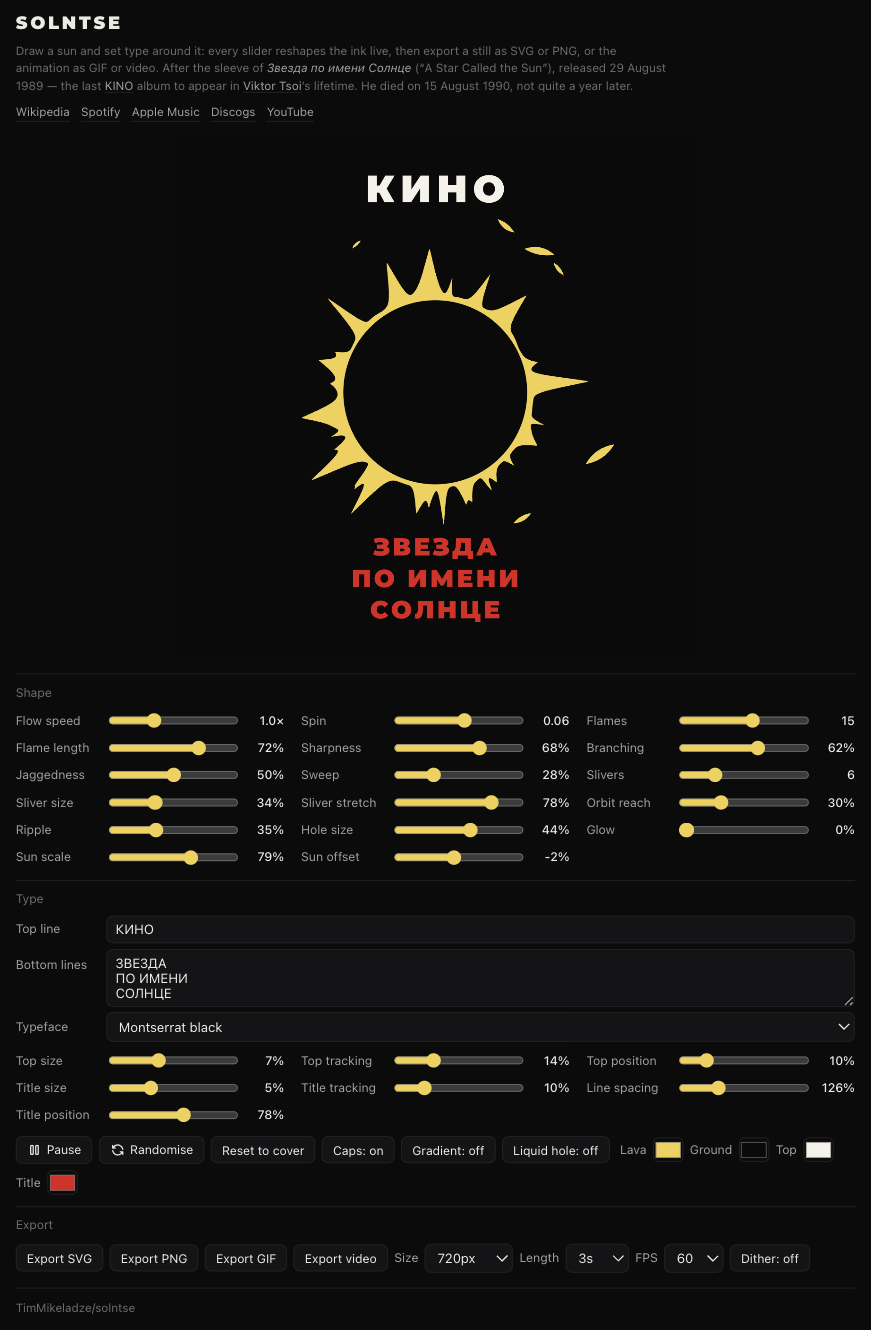
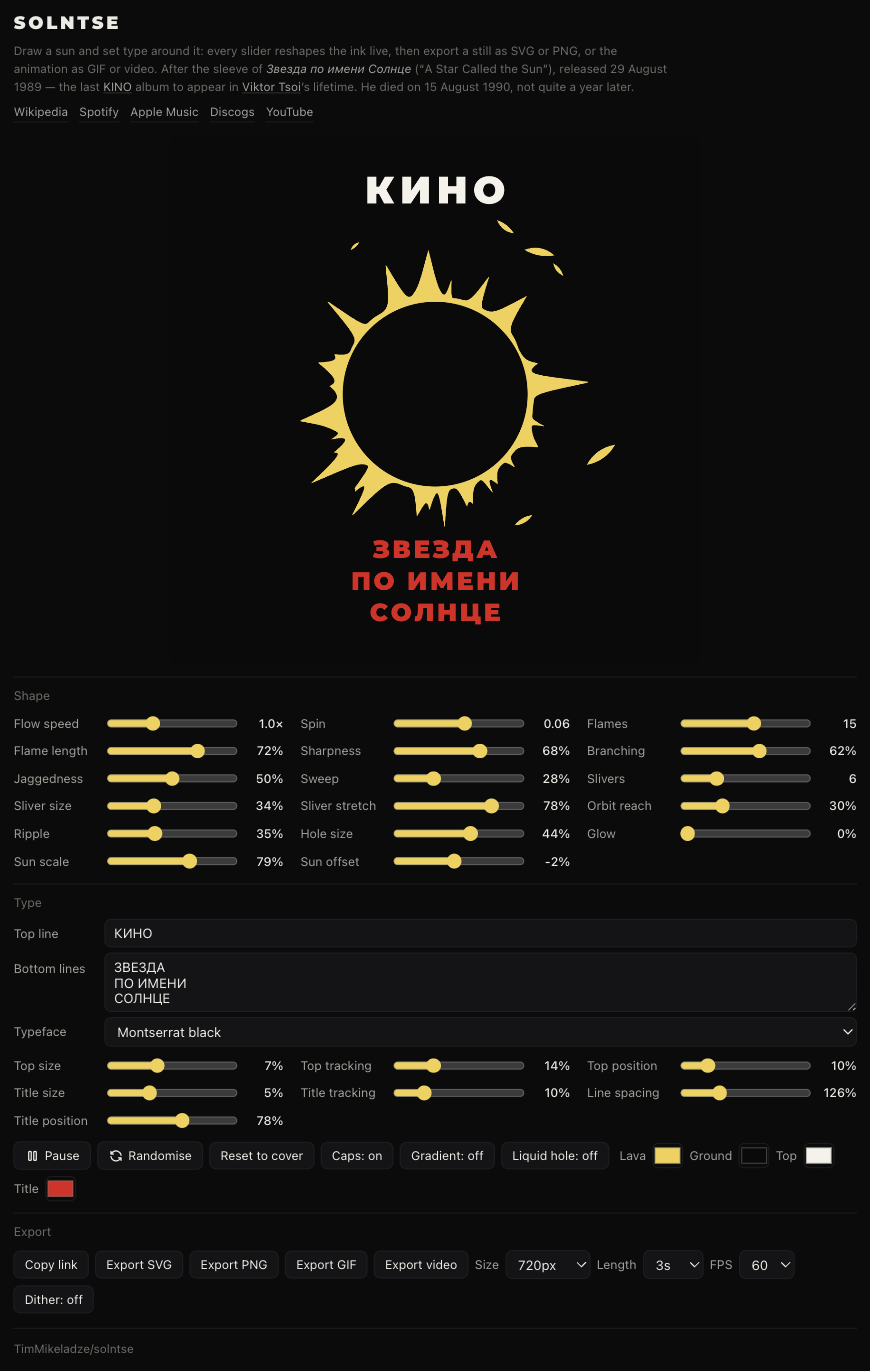
feat: put the whole artwork in the URL and add Copy link
Every slider, both text fields, the typeface, all four colours, the toggles and
the geometry seed serialise into the URL hash, so any state is a link. The
address bar rewrites itself as you work via a debounced replaceState, opening a
link rebuilds that exact sun, and a malformed or truncated hash clamps what it
can and falls back to a random sun rather than throwing.

Also stop randomising the liquid-hole toggle: it now always starts off.

Claude-Session: https://claude.ai/code/session_01HTHv2x9yjxjd3c1YEbDP2R

diff --git a/index.html b/index.html
@@ -144,6 +144,7 @@ input[type=range]{height:20px}
   </div>
   <div class="lsh">Export</div>
   <div class="lsb">
+    <button id="bshare" type="button">Copy link</button>
     <button id="bsvg" type="button">Export SVG</button>
     <button id="bpng" type="button">Export PNG</button>
     <button id="bgif" type="button">Export GIF</button>
@@ -167,11 +168,11 @@ var capturing=false,dith=false;
 var keys=['speed','spin','flames','length','sharp','branch','jag','sweep','drops','dsize','sliver','orbit','ripple','hole','glow','scale','offy','tsize','ttrack','ty','bsize','btrack','lead','by'];
 var DEF={speed:1,spin:0.06,flames:15,length:0.72,sharp:0.68,branch:0.62,jag:0.5,sweep:0.28,drops:6,dsize:0.34,sliver:0.78,orbit:0.3,ripple:0.35,hole:0.44,glow:0,scale:0.79,offy:-0.02,tsize:0.072,ttrack:0.14,ty:0.095,bsize:0.046,btrack:0.1,lead:1.26,by:0.775},P={};
 function fmt(k,v){if(k==='flames'||k==='drops')return String(Math.round(v));if(k==='speed')return v.toFixed(1)+'\u00d7';if(k==='spin')return v.toFixed(2);return Math.round(v*100)+'%';}
-function sync(){for(var i=0;i<keys.length;i++){var k=keys[i];P[k]=parseFloat(document.getElementById(k).value);document.getElementById(k+'o').textContent=fmt(k,P[k]);}}
+function sync(){for(var i=0;i<keys.length;i++){var k=keys[i];P[k]=parseFloat(document.getElementById(k).value);document.getElementById(k+'o').textContent=fmt(k,P[k]);}pushURL();}
 for(var z=0;z<keys.length;z++)document.getElementById(keys[z]).addEventListener('input',sync);
 function seed(a){return function(){a|=0;a=a+0x6D2B79F5|0;var t=Math.imul(a^a>>>15,1|a);t=t+Math.imul(t^t>>>7,61|t)^t;return((t^t>>>14)>>>0)/4294967296;};}
-var SL=[],DR=[],JG=[];
-function build(sd){var r=seed(sd),i,k;SL=[];DR=[];JG=[];
+var SL=[],DR=[],JG=[],SEED=514422;
+function build(sd){var r=seed(sd),i,k;SEED=sd;SL=[];DR=[];JG=[];
  for(i=0;i<24;i++){var kids=[],nk=Math.floor(r()*3.2);
   for(k=0;k<nk;k++)kids.push({off:(r()<0.5?-1:1)*(0.2+r()*0.5),amp:0.18+r()*0.5,w:0.26+r()*0.4,pul:0.2+r()*0.6,po:r()*TAU});
   SL.push({j:(r()-0.5)*0.75,rj:r(),m:{off:0,amp:0.3+r()*0.7,w:0.5+r()*0.8,pul:0.14+r()*0.5,po:r()*TAU},k:kids});}
@@ -191,10 +192,57 @@ function shuffle(){
   if(k==='spin'&&Math.random()<0.5)v=-v;
   document.getElementById(k).value=v;}
  document.getElementById('glow').value=Math.random()<0.55?0:rnd(0.12,0.42);
- grad=Math.random()<0.3;wob=Math.random()<0.35;
+ grad=Math.random()<0.3;wob=false;
  document.getElementById('bgrad').textContent='Gradient: '+(grad?'on':'off');
  document.getElementById('bwob').textContent='Liquid hole: '+(wob?'on':'off');
  build(Math.floor(Math.random()*1e6));sync();}
+
+/* --- the whole artwork lives in the URL hash, so any state is a link --- */
+function stateStr(){
+ var p=[],i;
+ for(i=0;i<keys.length;i++)p.push(+parseFloat(document.getElementById(keys[i]).value).toFixed(3));
+ return 's='+p.join(',')
+  +'&c='+['c1','c2','c3','c4'].map(function(id){return val(id).replace('#','');}).join(',')
+  +'&d='+SEED
+  +'&t='+encodeURIComponent(val('tfont'))
+  +'&f='+(caps?'c':'')+(grad?'g':'')+(wob?'w':'')
+  +'&a='+encodeURIComponent(val('ttop'))
+  +'&b='+encodeURIComponent(val('tbot'));}
+function shareURL(){return location.origin+location.pathname+'#'+stateStr();}
+var urlTimer=null;
+function pushURL(){
+ if(urlTimer)clearTimeout(urlTimer);
+ /* Debounced: a slider drag would otherwise trip Safari's replaceState limit. */
+ urlTimer=setTimeout(function(){try{history.replaceState(null,'','#'+stateStr());}catch(e){}},400);}
+function applyState(h){
+ try{
+  if(!h)return false;
+  var q={},parts=h.replace(/^#/,'').split('&'),i;
+  for(i=0;i<parts.length;i++){var e=parts[i].indexOf('=');if(e>0)q[parts[i].slice(0,e)]=parts[i].slice(e+1);}
+  if(!q.s)return false;
+  var nums=q.s.split(','),ok=false;
+  for(i=0;i<keys.length&&i<nums.length;i++){
+   var el=document.getElementById(keys[i]),v=parseFloat(nums[i]);
+   if(!isFinite(v))continue;
+   el.value=Math.min(parseFloat(el.max),Math.max(parseFloat(el.min),v));ok=true;}
+  if(!ok)return false;
+  if(q.c){var cs=q.c.split(',');
+   ['c1','c2','c3','c4'].forEach(function(id,j){
+    if(cs[j]&&/^[0-9a-fA-F]{6}$/.test(cs[j]))document.getElementById(id).value='#'+cs[j].toLowerCase();});}
+  var f=q.f||'';
+  caps=f.indexOf('c')>=0;grad=f.indexOf('g')>=0;wob=f.indexOf('w')>=0;
+  document.getElementById('bcaps').textContent='Caps: '+(caps?'on':'off');
+  document.getElementById('bgrad').textContent='Gradient: '+(grad?'on':'off');
+  document.getElementById('bwob').textContent='Liquid hole: '+(wob?'on':'off');
+  if(q.t){var fv=decodeURIComponent(q.t),sel=document.getElementById('tfont');
+   for(i=0;i<sel.options.length;i++)if(sel.options[i].value===fv)sel.value=fv;}
+  if(q.a!==undefined)document.getElementById('ttop').value=decodeURIComponent(q.a);
+  if(q.b!==undefined)document.getElementById('tbot').value=decodeURIComponent(q.b);
+  var sd=parseInt(q.d,10);
+  build(isFinite(sd)?sd:514422);
+  sync();
+  return true;
+ }catch(e){return false;}}
 function hx(h){h=h.replace('#','');return[parseInt(h.substr(0,2),16),parseInt(h.substr(2,2),16),parseInt(h.substr(4,2),16)];}
 function mx(c,w,a){return'rgb('+Math.round(c[0]+(w[0]-c[0])*a)+','+Math.round(c[1]+(w[1]-c[1])*a)+','+Math.round(c[2]+(w[2]-c[2])*a)+')';}
 function val(id){return document.getElementById(id).value;}
@@ -554,15 +602,27 @@ document.getElementById('bdith').addEventListener('click',function(){
 
 document.getElementById('bpause').addEventListener('click',function(){paused=!paused;this.innerHTML='<i class="ti '+(paused?'ti-player-play':'ti-player-pause')+'" style="font-size:16px;vertical-align:-2px;margin-right:5px" aria-hidden="true"></i>'+(paused?'Play':'Pause');});
 document.getElementById('brand').addEventListener('click',shuffle);
-document.getElementById('bcaps').addEventListener('click',function(){caps=!caps;this.textContent='Caps: '+(caps?'on':'off');});
-document.getElementById('bgrad').addEventListener('click',function(){grad=!grad;this.textContent='Gradient: '+(grad?'on':'off');});
-document.getElementById('bwob').addEventListener('click',function(){wob=!wob;this.textContent='Liquid hole: '+(wob?'on':'off');});
+document.getElementById('bcaps').addEventListener('click',function(){caps=!caps;this.textContent='Caps: '+(caps?'on':'off');pushURL();});
+document.getElementById('bgrad').addEventListener('click',function(){grad=!grad;this.textContent='Gradient: '+(grad?'on':'off');pushURL();});
+document.getElementById('bwob').addEventListener('click',function(){wob=!wob;this.textContent='Liquid hole: '+(wob?'on':'off');pushURL();});
+['c1','c2','c3','c4','ttop','tbot','tfont'].forEach(function(id){
+ document.getElementById(id).addEventListener('input',pushURL);
+ document.getElementById(id).addEventListener('change',pushURL);});
+document.getElementById('bshare').addEventListener('click',function(){
+ var u=shareURL();
+ try{history.replaceState(null,'','#'+stateStr());}catch(e){}
+ if(navigator.clipboard&&navigator.clipboard.writeText)
+  navigator.clipboard.writeText(u).then(function(){say('link copied');},function(){say('copy blocked — the address bar has it');});
+ else say('the address bar has the link');});
+window.addEventListener('hashchange',function(){applyState(location.hash);});
 document.getElementById('breset').addEventListener('click',function(){for(var i=0;i<keys.length;i++)document.getElementById(keys[i]).value=DEF[keys[i]];
  document.getElementById('c1').value='#f2d14b';document.getElementById('c2').value='#0a0a0a';document.getElementById('c3').value='#f4f2ea';document.getElementById('c4').value='#e01b1b';
  document.getElementById('ttop').value='КИНО';document.getElementById('tbot').value='ЗВЕЗДА\nПО ИМЕНИ\nСОЛНЦЕ';document.getElementById('tfont').value='Montserrat';
  grad=false;wob=false;caps=true;dith=false;document.getElementById('bgrad').textContent='Gradient: off';document.getElementById('bwob').textContent='Liquid hole: off';document.getElementById('bcaps').textContent='Caps: on';document.getElementById('bdith').textContent='Dither: off';
  build(514422);sync();});
-window.addEventListener('resize',fit);shuffle();fit();requestAnimationFrame(frame);
+window.addEventListener('resize',fit);
+if(!applyState(location.hash))shuffle();
+fit();requestAnimationFrame(frame);
 })();
 </script>
 </div>

diff --git a/README.md b/README.md
@@ -29,14 +29,31 @@ Nothing here is traced from that cover: the sun is generated from scratch on eve
 Open the page and start moving sliders. The canvas updates live.
 
 Every load opens on a different sun: the shape sliders, the seed, the spin direction and the gradient
-and liquid-hole toggles are all randomised within a range that stays legible. The album cover is one
-point in that space, not the starting point.
+toggle are randomised within a range that stays legible. Liquid hole always starts off. The album
+cover is one point in that space, not the starting point.
 
 - **Top line** and **Bottom lines** start empty. Type your own, one line per row in the textarea.
 - **Randomise** rolls a new sun — sliders, seed and toggles together.
 - **Reset to cover** goes the other way: the original КИНО / ЗВЕЗДА ПО ИМЕНИ СОЛНЦЕ artwork and every
   documented default.
 - **Pause** freezes the animation so you can grab a specific frame.
+- **Copy link** puts the current artwork on your clipboard as a URL.
+
+## Sharing
+
+The entire artwork lives in the URL hash — every slider, both text fields, the typeface, all four
+colours, the toggles, and the geometry seed. The address bar rewrites itself as you work
+(`history.replaceState`, debounced, so a slider drag does not flood browser history), and opening
+that URL rebuilds the identical sun.
+
+```
+#s=1.7,-0.44,9,0.6,…&c=7fd4ff,0a0a0a,f4f2ea,00ff88&d=76032&t=Oswald&f=gw&a=…&b=…
+```
+
+`s` is the slider vector in a fixed order, `c` the four colours, `d` the seed, `t` the typeface,
+`f` the toggle flags (`c` caps, `g` gradient, `w` liquid hole), and `a` / `b` the two text fields.
+Values are clamped to each slider's range on the way in and a malformed hash falls back to a random
+sun, so a truncated or hand-edited link degrades instead of breaking.
 
 ### Controls
 
